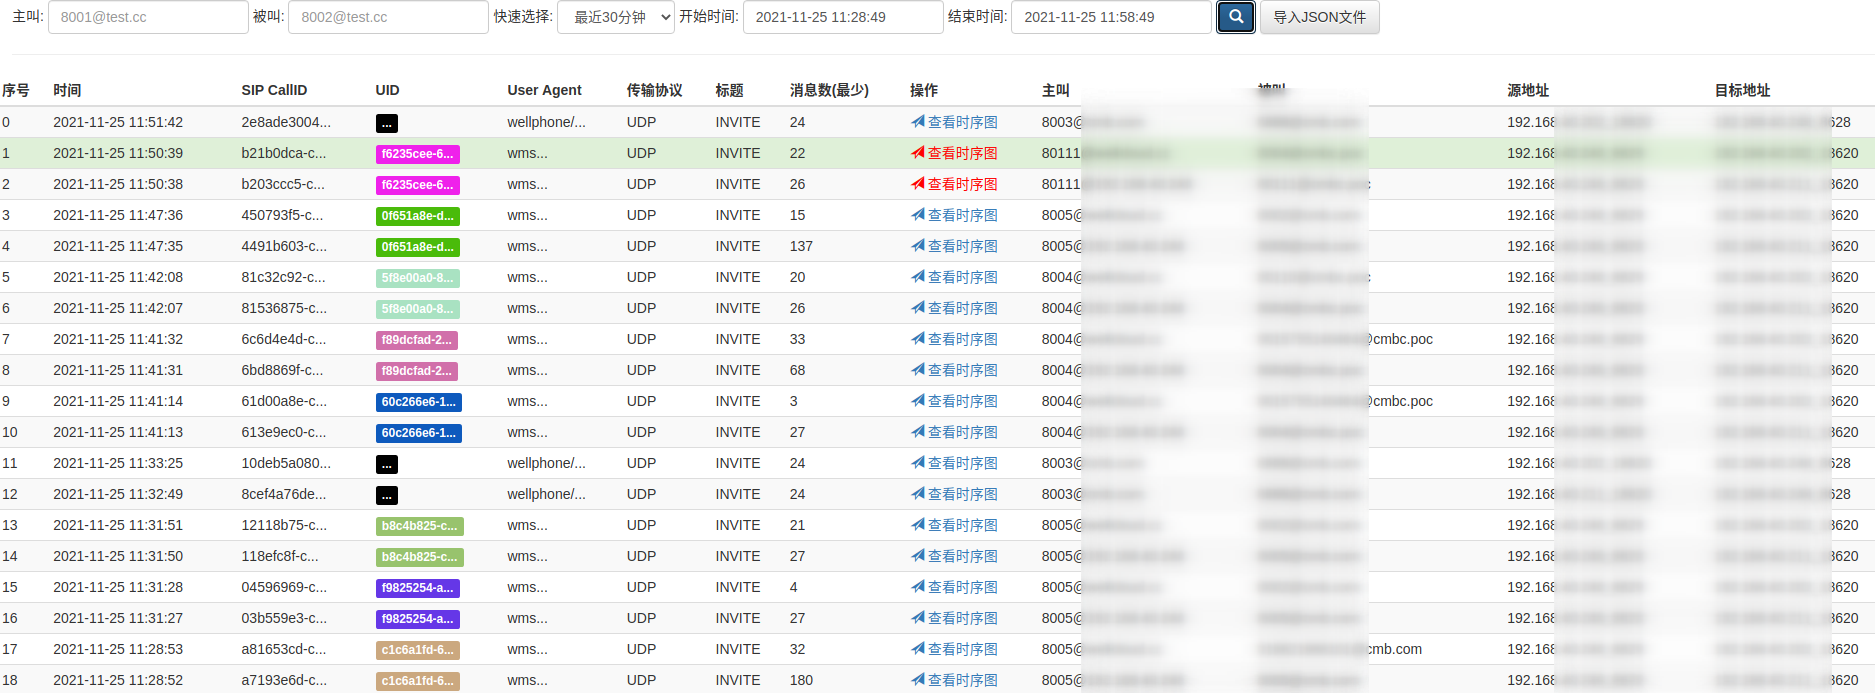
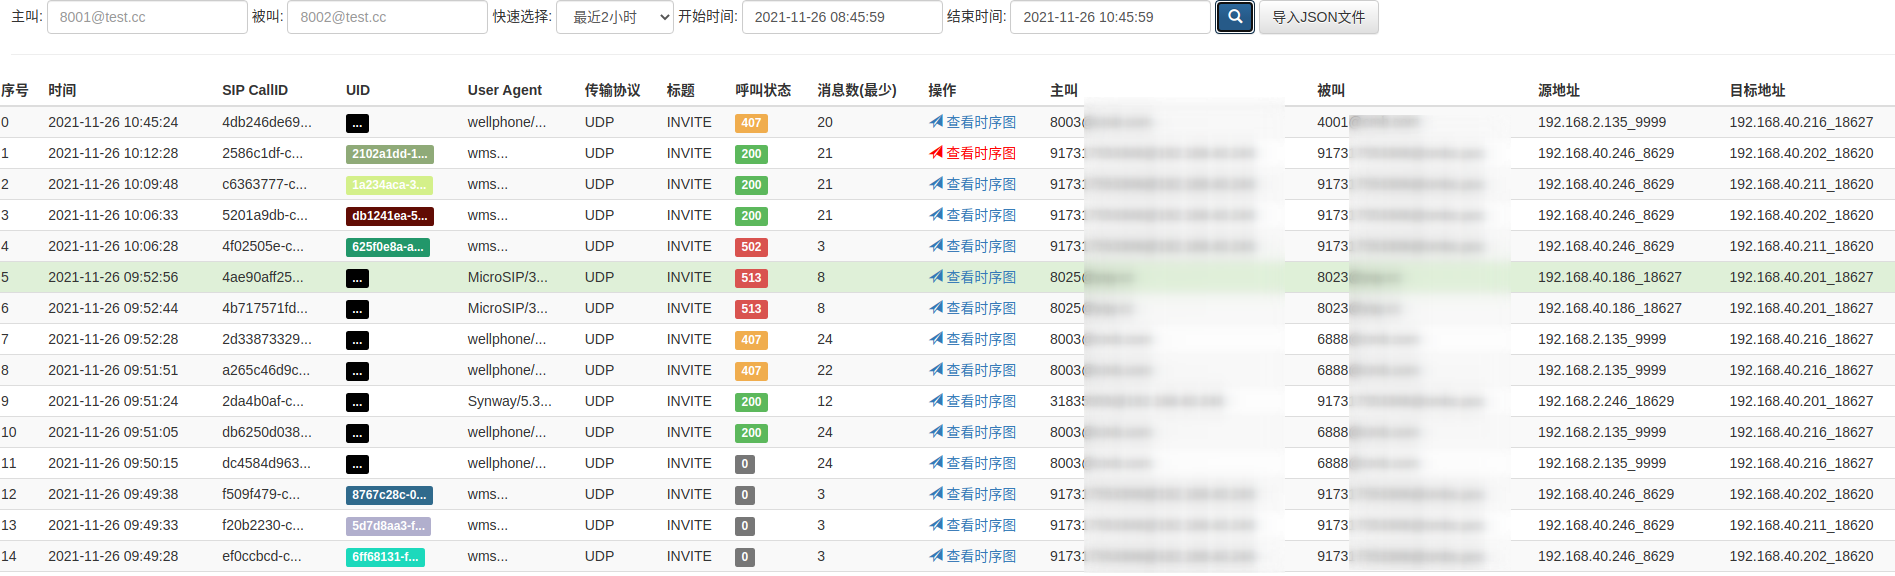
feat: 将响应消息的状态码保存到数据库

diff --git a/pkg/mysql/record.go b/pkg/mysql/record.go
@@ -19,24 +19,25 @@ var db *gorm.DB
 const MaxUserAgentLength = 40
 
 type Record struct {
-	ID          uint      `gorm:"primaryKey"`                                             // `id` int(11) unsigned NOT NULL AUTO_INCREMENT,
-	FsCallid    string    `gorm:"type:char(64);not null; default:''"`                     // `fs_callid` char(64) NOT NULL DEFAULT '',
-	LegUid      string    `gorm:"index;type:char(64);not null;default:''"`                // `leg_uid` char(64) NOT NULL DEFAULT '',
-	SipMethod   string    `gorm:"index;type:char(20);not null;default:''"`                // `sip_method` char(20) NOT NULL DEFAULT '',
-	CseqMethod  string    `gorm:"index;type:char(20);not null;default:''"`                // `cseq_method` char(20) NOT NULL DEFAULT '',
-	CseqNumber  int       `gorm:"type:int(11);not null;default:0"`                        // `cseq_number` int(11) NOT NULL DEFAULT '',
-	FromUser    string    `gorm:"index;type:char(40);not null;default:''"`                // `from_user` char(40) NOT NULL DEFAULT '',
-	FromHost    string    `gorm:"index;type:char(64);not null;default:''"`                // `from_host` char(64) NOT NULL DEFAULT '',
-	ToUser      string    `gorm:"index;type:char(40);not null;default:''"`                // `to_user` char(40) NOT NULL DEFAULT '',
-	ToHost      string    `gorm:"index;type:char(64);not null;default:''"`                // `to_host` char(64) NOT NULL DEFAULT '',
-	SipCallid   string    `gorm:"index;type:char(64);not null;default:''"`                // `sip_callid` char(64) NOT NULL DEFAULT '',
-	SipProtocol uint      `gorm:"type:int(11);not null;default:0"`                        // `sip_protocol` int(11) NOT NULL,
-	IsRequest   uint      `gorm:"index;type:int(11);not null;default:0"`                  // `sip_protocol` int(11) NOT NULL,
-	UserAgent   string    `gorm:"type:char(40);not null;default:''"`                      // `user_agent` char(40) NOT NULL DEFAULT '',
-	SrcHost     string    `gorm:"type:char(32);not null;default:''"`                      // `src_host` char(32) NOT NULL DEFAULT '',
-	DstHost     string    `gorm:"type:char(32);not null;default:''"`                      // `dst_host` char(32) NOT NULL DEFAULT '',
-	CreateTime  time.Time `gorm:"index;type:datetime;not null;default:CURRENT_TIMESTAMP"` // `create_time` datetime NOT NULL DEFAULT CURRENT_TIMESTAMP,
-	RawMsg      string    `gorm:"type:text;not null"`                                     // `raw_msg` text NOT NULL,
+	ID           uint      `gorm:"primaryKey"`                                             // `id` int(11) unsigned NOT NULL AUTO_INCREMENT,
+	FsCallid     string    `gorm:"type:char(64);not null; default:''"`                     // `fs_callid` char(64) NOT NULL DEFAULT '',
+	LegUid       string    `gorm:"index;type:char(64);not null;default:''"`                // `leg_uid` char(64) NOT NULL DEFAULT '',
+	SipMethod    string    `gorm:"index;type:char(20);not null;default:''"`                // `sip_method` char(20) NOT NULL DEFAULT '',
+	ResponseCode int       `gorm:"index;type:int(11);not null;default:0"`                  // `cseq_number` int(11) NOT NULL DEFAULT '',
+	CseqMethod   string    `gorm:"index;type:char(20);not null;default:''"`                // `cseq_method` char(20) NOT NULL DEFAULT '',
+	CseqNumber   int       `gorm:"type:int(11);not null;default:0"`                        // `cseq_number` int(11) NOT NULL DEFAULT '',
+	FromUser     string    `gorm:"index;type:char(40);not null;default:''"`                // `from_user` char(40) NOT NULL DEFAULT '',
+	FromHost     string    `gorm:"index;type:char(64);not null;default:''"`                // `from_host` char(64) NOT NULL DEFAULT '',
+	ToUser       string    `gorm:"index;type:char(40);not null;default:''"`                // `to_user` char(40) NOT NULL DEFAULT '',
+	ToHost       string    `gorm:"index;type:char(64);not null;default:''"`                // `to_host` char(64) NOT NULL DEFAULT '',
+	SipCallid    string    `gorm:"index;type:char(64);not null;default:''"`                // `sip_callid` char(64) NOT NULL DEFAULT '',
+	SipProtocol  uint      `gorm:"type:int(11);not null;default:0"`                        // `sip_protocol` int(11) NOT NULL,
+	IsRequest    uint      `gorm:"index;type:int(11);not null;default:0"`                  // `sip_protocol` int(11) NOT NULL,
+	UserAgent    string    `gorm:"type:char(40);not null;default:''"`                      // `user_agent` char(40) NOT NULL DEFAULT '',
+	SrcHost      string    `gorm:"type:char(32);not null;default:''"`                      // `src_host` char(32) NOT NULL DEFAULT '',
+	DstHost      string    `gorm:"type:char(32);not null;default:''"`                      // `dst_host` char(32) NOT NULL DEFAULT '',
+	CreateTime   time.Time `gorm:"index;type:datetime;not null;default:CURRENT_TIMESTAMP"` // `create_time` datetime NOT NULL DEFAULT CURRENT_TIMESTAMP,
+	RawMsg       string    `gorm:"type:text;not null"`                                     // `raw_msg` text NOT NULL,
 }
 
 func DeleteOldRecords(keepHours int) {
@@ -59,23 +60,24 @@ func Save(s *models.SIP) {
 	}
 
 	item := Record{
-		FsCallid:    s.FSCallID,
-		LegUid:      s.UID,
-		SipMethod:   s.Title,
-		CseqMethod:  s.CSeqMethod,
-		CseqNumber:  util.StrToInt(s.CSeqNumber),
-		FromUser:    s.FromUsername,
-		FromHost:    s.FromDomain,
-		ToUser:      util.ReverseString(s.ToUsername), // 被叫号码翻转后存储, 方便查询时不需要加前缀
-		ToHost:      s.ToDomain,
-		SipCallid:   s.CallID,
-		IsRequest:   uint(isRequest),
-		SipProtocol: uint(s.Protocol),
-		UserAgent:   ua,
-		SrcHost:     s.SrcAddr,
-		DstHost:     s.DstAddr,
-		CreateTime:  s.CreateAt,
-		RawMsg:      *s.Raw,
+		FsCallid:     s.FSCallID,
+		LegUid:       s.UID,
+		SipMethod:    s.Title,
+		ResponseCode: s.ResponseCode,
+		CseqMethod:   s.CSeqMethod,
+		CseqNumber:   s.CSeqNumber,
+		FromUser:     s.FromUsername,
+		FromHost:     s.FromDomain,
+		ToUser:       util.ReverseString(s.ToUsername), // 被叫号码翻转后存储, 方便查询时不需要加前缀
+		ToHost:       s.ToDomain,
+		SipCallid:    s.CallID,
+		IsRequest:    uint(isRequest),
+		SipProtocol:  uint(s.Protocol),
+		UserAgent:    ua,
+		SrcHost:      s.SrcAddr,
+		DstHost:      s.DstAddr,
+		CreateTime:   s.CreateAt,
+		RawMsg:       *s.Raw,
 	}
 
 	result := db.Create(&item)

diff --git a/pkg/parser/parser_test.go b/pkg/parser/parser_test.go
@@ -32,31 +32,49 @@ const inviteMsg = "INVITE sip:bob@biloxi.example.com SIP/2.0\r\n" +
 	"m=audio 49172 RTP/AVP 0\r\n" +
 	"a=rtpmap:0 PCMU/8000\r\n"
 
+const res2 = "SIP/2.0 200 OK\r\n" +
+	"Via: SIP/2.0/UDP 192.168.40.216:18627;received=192.168.40.216;branch=z9hG4bKac0f.d8a7e9b2.0\r\n" +
+	"Call-ID: b546fe7e-c83e-123a-14b2-005056896fef\r\n" +
+	"From: \"8004\" <sip:8004@192.168.40.246>;tag=21rK7D7tBjZ5K\r\n" +
+	"To: <sip:8004@cmbc.poc>;tag=4255d177dd87458581d581c9f075ac8a\r\n" +
+	"CSeq: 44350829 NOTIFY\r\n" +
+	"Content-Length:  0\r\n"
+
 func TestParseCSeq(t *testing.T) {
 	successCases := []struct {
 		in                 string
-		expectedCseqNumber string
+		expectedCseqNumber int
 		expectedCseqMethod string
 	}{
 		{
+			in:                 res2,
+			expectedCseqNumber: 44350829,
+			expectedCseqMethod: "NOTIFY",
+		},
+		{
 			in:                 "CSeq: 123 INVITE\r\n",
-			expectedCseqNumber: "123",
+			expectedCseqNumber: 123,
 			expectedCseqMethod: "INVITE",
 		},
 		{
 			in:                 "",
-			expectedCseqNumber: "",
+			expectedCseqNumber: 0,
 			expectedCseqMethod: "",
 		},
 		{
 			in:                 "CSeq: 123 INVITE\r\n",
-			expectedCseqNumber: "123",
+			expectedCseqNumber: 123,
 			expectedCseqMethod: "INVITE",
 		},
 		{
 			in:                 "CSeq: INVITE\r\n",
-			expectedCseqNumber: "",
+			expectedCseqNumber: 0,
 			expectedCseqMethod: "",
+		},
+		{
+			in:                 "CSeq: 44350826 INVITE\r\n",
+			expectedCseqNumber: 44350826,
+			expectedCseqMethod: "INVITE",
 		},
 	}
 
@@ -180,14 +198,15 @@ func TestGetHeaderValue(t *testing.T) {
 
 func TestParseFirstLine(t *testing.T) {
 	successCases := []struct {
-		msg        string
-		IsRequest  bool
-		Title      string
-		RequestURL string
+		msg          string
+		IsRequest    bool
+		ResponseCode int
+		Title        string
+		RequestURL   string
 	}{
-		{"REGISTER sip:registrar.biloxi.com SIP/2.0\r\nVia: SIP/2.0/UDP bobspc.biloxi.com:5060;branch=z9hG4bKnashds7", true, "REGISTER", "sip:registrar.biloxi.com"},
-		{"SIP/2.0 200 OK\r\nVia: SIP/2.0/UDP bobspc.biloxi.com:5060;branch=z9hG4bKnashds7", false, "200", ""},
-		{"", false, "", ""},
+		{"REGISTER sip:registrar.biloxi.com SIP/2.0\r\nVia: SIP/2.0/UDP bobspc.biloxi.com:5060;branch=z9hG4bKnashds7", true, 0, "REGISTER", "sip:registrar.biloxi.com"},
+		{"SIP/2.0 200 OK\r\nVia: SIP/2.0/UDP bobspc.biloxi.com:5060;branch=z9hG4bKnashds7", false, 200, "200", ""},
+		{"", false, 0, "", ""},
 	}
 
 	for _, c := range successCases {
@@ -197,6 +216,7 @@ func TestParseFirstLine(t *testing.T) {
 		sip.ParseFirstLine()
 		assert.Equal(t, c.IsRequest, sip.IsRequest)
 		assert.Equal(t, c.Title, sip.Title)
+		assert.Equal(t, c.ResponseCode, sip.ResponseCode)
 		assert.Equal(t, c.RequestURL, sip.RequestURL)
 	}
 }

diff --git a/pkg/parser/parser.go b/pkg/parser/parser.go
@@ -2,6 +2,7 @@ package parser
 
 import (
 	"siphub/pkg/models"
+	"siphub/pkg/util"
 	"strings"
 )
 
@@ -47,6 +48,7 @@ func (p *Parser) ParseFirstLine() {
 	if strings.HasPrefix(firstLineMeta[0], "SIP") {
 		p.IsRequest = false
 		p.Title = firstLineMeta[1]
+		p.ResponseCode = util.StrToInt(firstLineMeta[1])
 		return
 	}
 	p.IsRequest = true
@@ -155,7 +157,7 @@ func (p *Parser) ParseCseq() {
 	if len(cs) != 2 {
 		return
 	}
-	p.CSeqNumber = cs[0]
+	p.CSeqNumber = util.StrToInt(cs[0])
 	p.CSeqMethod = cs[1]
 }
 

diff --git a/pkg/models/models.go b/pkg/models/models.go
@@ -13,6 +13,7 @@ const (
 type SIP struct {
 	Title           string // Method or Status
 	IsRequest       bool
+	ResponseCode    int
 	CallID          string
 	RequestURL      string
 	RequestUsername string
@@ -21,7 +22,7 @@ type SIP struct {
 	ToDomain        string
 	FromUsername    string
 	FromDomain      string
-	CSeqNumber      string
+	CSeqNumber      int
 	CSeqMethod      string
 	UserAgent       string
 	SrcAddr         string // IP:PORT
